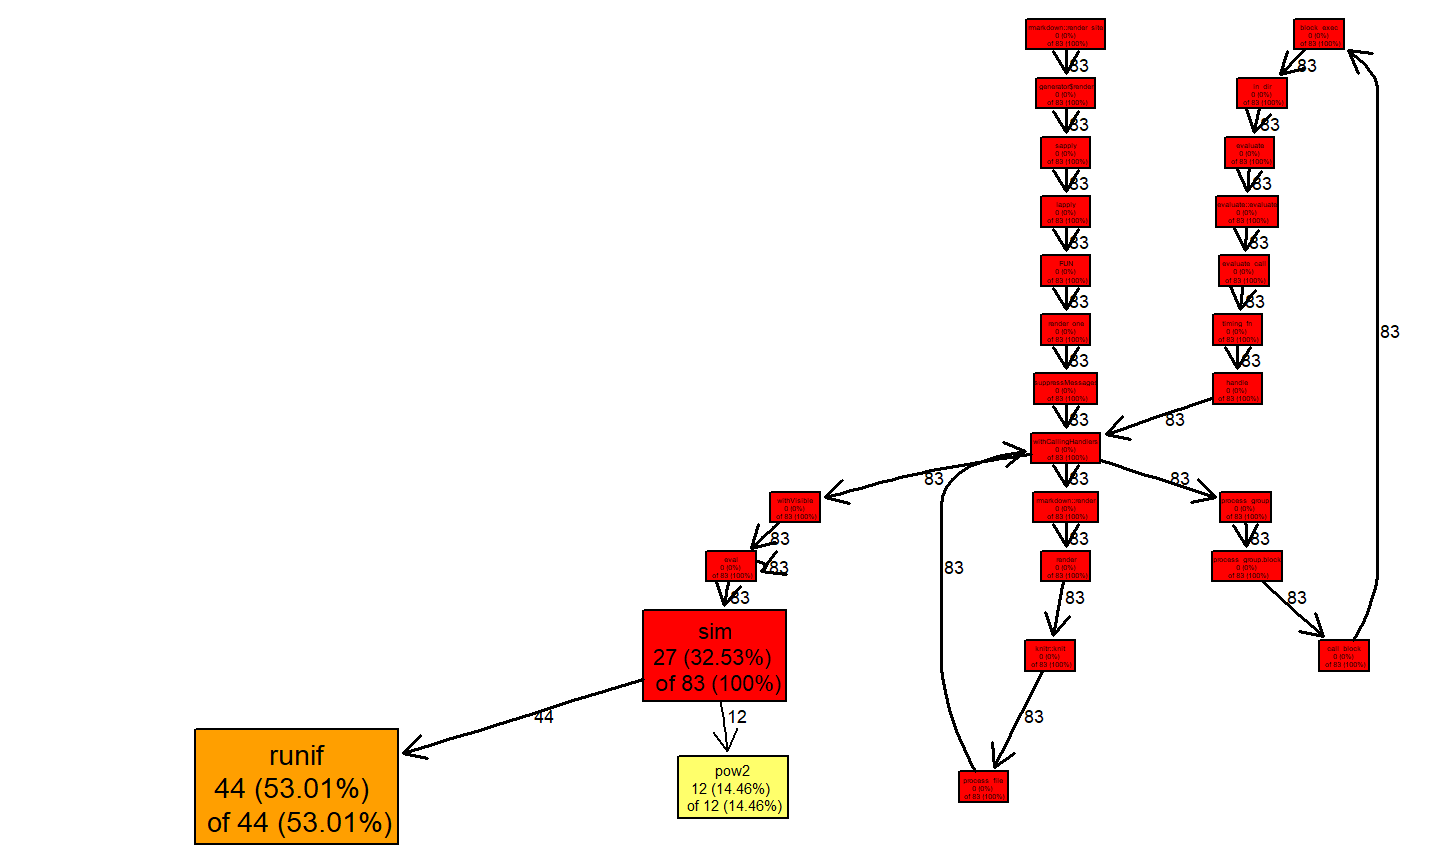
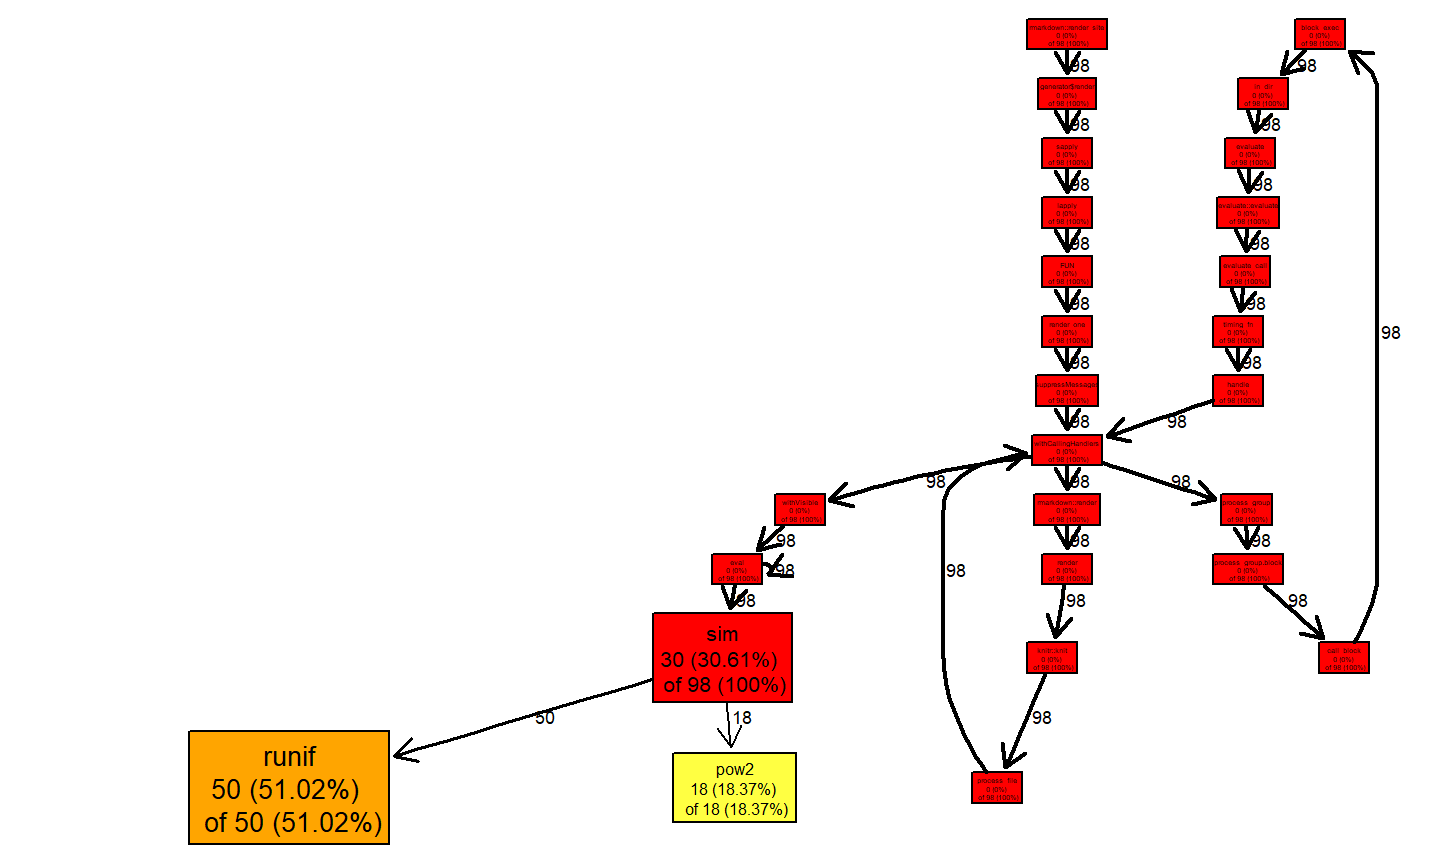
changing the theme

diff --git a/Profiling.html b/Profiling.html
@@ -193,7 +193,7 @@ system.time(
 )</pre>
 
 <pre >##    user  system elapsed 
-##    1.62    0.02    1.67</pre>
+##    1.88    0.00    2.36</pre>
 
 </article></slide><slide class=""><hgroup><h2>Monitoring the execution time</h2></hgroup><article  id="monitoring-the-execution-time-1">
 
@@ -232,11 +232,11 @@ sim2 &lt;- function(l) {
 <pre class = 'prettyprint lang-r'>tic(&quot;Total execution time&quot;)
     res &lt;- sim2(size)</pre>
 
-<pre >## only for-loop: 3.27 sec elapsed</pre>
+<pre >## only for-loop: 4.47 sec elapsed</pre>
 
 <pre class = 'prettyprint lang-r'>toc(log = TRUE)</pre>
 
-<pre >## Total execution time: 3.3 sec elapsed</pre>
+<pre >## Total execution time: 4.52 sec elapsed</pre>
 
 </article></slide><slide class=""><hgroup><h2>Monitoring the execution time</h2></hgroup><article  id="monitoring-the-execution-time-4">
 
@@ -245,10 +245,10 @@ sim2 &lt;- function(l) {
 <pre class = 'prettyprint lang-r'>tic.log()</pre>
 
 <pre >## [[1]]
-## [1] &quot;only for-loop: 3.27 sec elapsed&quot;
+## [1] &quot;only for-loop: 4.47 sec elapsed&quot;
 ## 
 ## [[2]]
-## [1] &quot;Total execution time: 3.3 sec elapsed&quot;</pre>
+## [1] &quot;Total execution time: 4.52 sec elapsed&quot;</pre>
 
 <pre class = 'prettyprint lang-r'>tic.clearlog()</pre>
 
@@ -285,45 +285,45 @@ Rprof(NULL)</pre>
 
 <pre >## $by.self
 ##         self.time self.pct total.time total.pct
-## &quot;runif&quot;      0.88    53.01       0.88     53.01
-## &quot;sim&quot;        0.54    32.53       1.66    100.00
-## &quot;pow2&quot;       0.24    14.46       0.24     14.46
+## &quot;runif&quot;      1.00    51.02       1.00     51.02
+## &quot;sim&quot;        0.60    30.61       1.96    100.00
+## &quot;pow2&quot;       0.36    18.37       0.36     18.37
 ## 
 ## $by.total
 ##                          total.time total.pct self.time self.pct
-## &quot;sim&quot;                          1.66    100.00      0.54    32.53
-## &quot;block_exec&quot;                   1.66    100.00      0.00     0.00
-## &quot;call_block&quot;                   1.66    100.00      0.00     0.00
-## &quot;eval&quot;                         1.66    100.00      0.00     0.00
-## &quot;evaluate&quot;                     1.66    100.00      0.00     0.00
-## &quot;evaluate::evaluate&quot;           1.66    100.00      0.00     0.00
-## &quot;evaluate_call&quot;                1.66    100.00      0.00     0.00
-## &quot;FUN&quot;                          1.66    100.00      0.00     0.00
-## &quot;generator$render&quot;             1.66    100.00      0.00     0.00
-## &quot;handle&quot;                       1.66    100.00      0.00     0.00
-## &quot;in_dir&quot;                       1.66    100.00      0.00     0.00
-## &quot;knitr::knit&quot;                  1.66    100.00      0.00     0.00
-## &quot;lapply&quot;                       1.66    100.00      0.00     0.00
-## &quot;process_file&quot;                 1.66    100.00      0.00     0.00
-## &quot;process_group&quot;                1.66    100.00      0.00     0.00
-## &quot;process_group.block&quot;          1.66    100.00      0.00     0.00
-## &quot;render&quot;                       1.66    100.00      0.00     0.00
-## &quot;render_one&quot;                   1.66    100.00      0.00     0.00
-## &quot;rmarkdown::render&quot;            1.66    100.00      0.00     0.00
-## &quot;rmarkdown::render_site&quot;       1.66    100.00      0.00     0.00
-## &quot;sapply&quot;                       1.66    100.00      0.00     0.00
-## &quot;suppressMessages&quot;             1.66    100.00      0.00     0.00
-## &quot;timing_fn&quot;                    1.66    100.00      0.00     0.00
-## &quot;withCallingHandlers&quot;          1.66    100.00      0.00     0.00
-## &quot;withVisible&quot;                  1.66    100.00      0.00     0.00
-## &quot;runif&quot;                        0.88     53.01      0.88    53.01
-## &quot;pow2&quot;                         0.24     14.46      0.24    14.46
+## &quot;sim&quot;                          1.96    100.00      0.60    30.61
+## &quot;block_exec&quot;                   1.96    100.00      0.00     0.00
+## &quot;call_block&quot;                   1.96    100.00      0.00     0.00
+## &quot;eval&quot;                         1.96    100.00      0.00     0.00
+## &quot;evaluate&quot;                     1.96    100.00      0.00     0.00
+## &quot;evaluate::evaluate&quot;           1.96    100.00      0.00     0.00
+## &quot;evaluate_call&quot;                1.96    100.00      0.00     0.00
+## &quot;FUN&quot;                          1.96    100.00      0.00     0.00
+## &quot;generator$render&quot;             1.96    100.00      0.00     0.00
+## &quot;handle&quot;                       1.96    100.00      0.00     0.00
+## &quot;in_dir&quot;                       1.96    100.00      0.00     0.00
+## &quot;knitr::knit&quot;                  1.96    100.00      0.00     0.00
+## &quot;lapply&quot;                       1.96    100.00      0.00     0.00
+## &quot;process_file&quot;                 1.96    100.00      0.00     0.00
+## &quot;process_group&quot;                1.96    100.00      0.00     0.00
+## &quot;process_group.block&quot;          1.96    100.00      0.00     0.00
+## &quot;render&quot;                       1.96    100.00      0.00     0.00
+## &quot;render_one&quot;                   1.96    100.00      0.00     0.00
+## &quot;rmarkdown::render&quot;            1.96    100.00      0.00     0.00
+## &quot;rmarkdown::render_site&quot;       1.96    100.00      0.00     0.00
+## &quot;sapply&quot;                       1.96    100.00      0.00     0.00
+## &quot;suppressMessages&quot;             1.96    100.00      0.00     0.00
+## &quot;timing_fn&quot;                    1.96    100.00      0.00     0.00
+## &quot;withCallingHandlers&quot;          1.96    100.00      0.00     0.00
+## &quot;withVisible&quot;                  1.96    100.00      0.00     0.00
+## &quot;runif&quot;                        1.00     51.02      1.00    51.02
+## &quot;pow2&quot;                         0.36     18.37      0.36    18.37
 ## 
 ## $sample.interval
 ## [1] 0.02
 ## 
 ## $sampling.time
-## [1] 1.66</pre>
+## [1] 1.96</pre>
 
 </article></slide><slide class=""><hgroup><h2>Rprof</h2></hgroup><article  id="rprof-3">
 
@@ -352,7 +352,7 @@ bench &lt;- benchmark(sim(size), replications=10)
 bench </pre>
 
 <pre >##        test replications elapsed relative user.self sys.self user.child
-## 1 sim(size)           10      16        1     15.86     0.01         NA
+## 1 sim(size)           10    16.4        1     16.28        0         NA
 ##   sys.child
 ## 1        NA</pre>
 
@@ -361,7 +361,7 @@ bench </pre>
 <pre class = 'prettyprint lang-r'>bench </pre>
 
 <pre >##        test replications elapsed relative user.self sys.self user.child
-## 1 sim(size)           10      16        1     15.86     0.01         NA
+## 1 sim(size)           10    16.4        1     16.28        0         NA
 ##   sys.child
 ## 1        NA</pre>
 
@@ -383,8 +383,8 @@ bench2 &lt;- microbenchmark(sim(size), times=10)</pre>
 <pre class = 'prettyprint lang-r'>bench2 </pre>
 
 <pre >## Unit: seconds
-##       expr      min       lq     mean   median       uq      max neval
-##  sim(size) 1.568919 1.578396 1.597295 1.592178 1.601754 1.678578    10</pre>
+##       expr      min       lq     mean   median      uq      max neval
+##  sim(size) 1.608702 1.619249 1.658372 1.625849 1.63426 1.885087    10</pre>
 
 <p>in this case we obtain more statistics of the benchmarking process like the <em>mean</em>, <em>min</em>, <em>max</em>, …</p>
 

diff --git a/Optimizing.html b/Optimizing.html
@@ -149,7 +149,7 @@ system.time(
 )</pre>
 
 <pre >##    user  system elapsed 
-##    0.52    0.00    0.62</pre>
+##    0.55    0.00    0.75</pre>
 
 </article></slide><slide class=""><hgroup><h2>Vectorization</h2></hgroup><article  id="vectorization">
 
@@ -171,7 +171,7 @@ system.time(
 )</pre>
 
 <pre >##    user  system elapsed 
-##    0.02    0.00    0.02</pre>
+##    0.02    0.00    0.01</pre>
 
 <p>a message from this example is that loops are expensive in R and vectorization can help to improve the performance of the code.</p>
 
@@ -188,7 +188,7 @@ system.time({
   })</pre>
 
 <pre >##    user  system elapsed 
-##   13.12    0.09   13.53</pre>
+##   12.84    0.28   13.47</pre>
 
 </article></slide><slide class=""><hgroup><h2>Memory pre-allocation</h2></hgroup><article  id="memory-pre-allocation-1">
 
@@ -201,7 +201,7 @@ system.time({
 })</pre>
 
 <pre >##    user  system elapsed 
-##    0.62    0.00    0.62</pre>
+##     0.6     0.0     0.6</pre>
 
 <p>This example shows that pre-allocating memory reduces the execution time.</p>
 
@@ -212,7 +212,7 @@ dataf &lt;- data.frame(data1)
 system.time(data2 &lt;- rowSums(dataf))</pre>
 
 <pre >##    user  system elapsed 
-##    0.08    0.04    0.12</pre>
+##    0.10    0.01    0.11</pre>
 
 </article></slide><slide class=""><hgroup><h2>Using Data Frames</h2></hgroup><article  id="using-data-frames-1">
 
@@ -221,7 +221,7 @@ dim(data1) &lt;- c(1E4,1000)
 system.time(data1 &lt;- rowSums(data1))</pre>
 
 <pre >##    user  system elapsed 
-##    0.05    0.00    0.05</pre>
+##    0.03    0.00    0.03</pre>
 
 <p>Then, it is more efficient to use matrices upon doing numerical calculations rather than Data Frames.</p>
 
@@ -238,12 +238,12 @@ dim(data) &lt;- c(1E5,100)
 system.time(prcomp_data &lt;- prcomp(data))</pre>
 
 <pre >##    user  system elapsed 
-##    4.33    0.03    4.37</pre>
+##    4.27    0.03    4.33</pre>
 
 <pre class = 'prettyprint lang-r'>system.time(princomp_data &lt;- princomp(data))</pre>
 
 <pre >##    user  system elapsed 
-##    2.26    0.07    2.36</pre>
+##    2.29    0.04    2.36</pre>
 
 </article></slide><slide class=""><hgroup><h2>Compiling your functions</h2></hgroup><article  id="compiling-your-functions">
 
@@ -281,11 +281,11 @@ bench &lt;- microbenchmark(sim(size), sim.comp0(size), sim.comp1(size), sim.comp
 
 <pre >## Unit: milliseconds
 ##             expr      min       lq     mean   median       uq       max neval
-##        sim(size) 291.0577 316.4991 325.1319 322.1775 328.1633  401.1085   100
-##  sim.comp0(size) 849.3398 868.3363 886.6714 881.9253 896.5020 1029.5112   100
-##  sim.comp1(size) 387.3174 409.0140 419.8925 416.1044 424.2475  565.7646   100
-##  sim.comp2(size) 301.2338 314.4177 322.0128 320.0204 326.7867  365.4081   100
-##  sim.comp3(size) 296.5905 311.5005 319.7005 317.1386 324.8915  402.4483   100</pre>
+##        sim(size) 299.7324 314.5628 341.5292 324.2422 340.4423  592.6272   100
+##  sim.comp0(size) 849.6985 870.0995 914.0372 882.1523 923.2930 1339.0606   100
+##  sim.comp1(size) 395.7371 408.2817 442.8865 418.4188 436.2277  835.3693   100
+##  sim.comp2(size) 298.5652 313.2735 344.2663 322.8684 342.5759  754.6764   100
+##  sim.comp3(size) 295.0734 308.9535 333.6109 316.3514 336.6708  565.6129   100</pre>
 
 </article></slide><slide class=""><hgroup><h2>Compiling your functions</h2></hgroup><article  id="compiling-your-functions-3">
 
@@ -307,8 +307,8 @@ enableJIT(level=3)</pre>
 bench</pre>
 
 <pre >## Unit: milliseconds
-##       expr      min       lq     mean   median     uq     max neval
-##  sim(size) 298.0728 313.0756 319.5158 320.0049 324.48 381.007   100</pre>
+##       expr      min       lq    mean  median       uq      max neval
+##  sim(size) 305.3421 321.6235 332.461 327.096 335.1596 436.2222   100</pre>
 
 </article></slide><slide class=""><hgroup><h2>Advanced Topics (Kebnekaise):</h2></hgroup><article  id="advanced-topics-kebnekaise">
 

diff --git a/index.html b/index.html
@@ -15,7 +15,7 @@
 
 <script src="site_libs/jquery-1.11.3/jquery.min.js"></script>
 <meta name="viewport" content="width=device-width, initial-scale=1" />
-<link href="site_libs/bootstrap-3.3.5/css/united.min.css" rel="stylesheet" />
+<link href="site_libs/bootstrap-3.3.5/css/sandstone.min.css" rel="stylesheet" />
 <script src="site_libs/bootstrap-3.3.5/js/bootstrap.min.js"></script>
 <script src="site_libs/bootstrap-3.3.5/shim/html5shiv.min.js"></script>
 <script src="site_libs/bootstrap-3.3.5/shim/respond.min.js"></script>
@@ -102,33 +102,33 @@ summary {
 <style type="text/css">
 /* padding for bootstrap navbar */
 body {
-  padding-top: 51px;
+  padding-top: 61px;
   padding-bottom: 40px;
 }
 /* offset scroll position for anchor links (for fixed navbar)  */
 .section h1 {
-  padding-top: 56px;
-  margin-top: -56px;
+  padding-top: 66px;
+  margin-top: -66px;
 }
 .section h2 {
-  padding-top: 56px;
-  margin-top: -56px;
+  padding-top: 66px;
+  margin-top: -66px;
 }
 .section h3 {
-  padding-top: 56px;
-  margin-top: -56px;
+  padding-top: 66px;
+  margin-top: -66px;
 }
 .section h4 {
-  padding-top: 56px;
-  margin-top: -56px;
+  padding-top: 66px;
+  margin-top: -66px;
 }
 .section h5 {
-  padding-top: 56px;
-  margin-top: -56px;
+  padding-top: 66px;
+  margin-top: -66px;
 }
 .section h6 {
-  padding-top: 56px;
-  margin-top: -56px;
+  padding-top: 66px;
+  margin-top: -66px;
 }
 .dropdown-submenu {
   position: relative;
@@ -279,6 +279,9 @@ $(document).ready(function () {
 </li>
 <li>
   <a href="Optimizing.html">Optimizing</a>
+</li>
+<li>
+  <a href="Chapter1/testing.html">testing</a>
 </li>
       </ul>
       <ul class="nav navbar-nav navbar-right">
